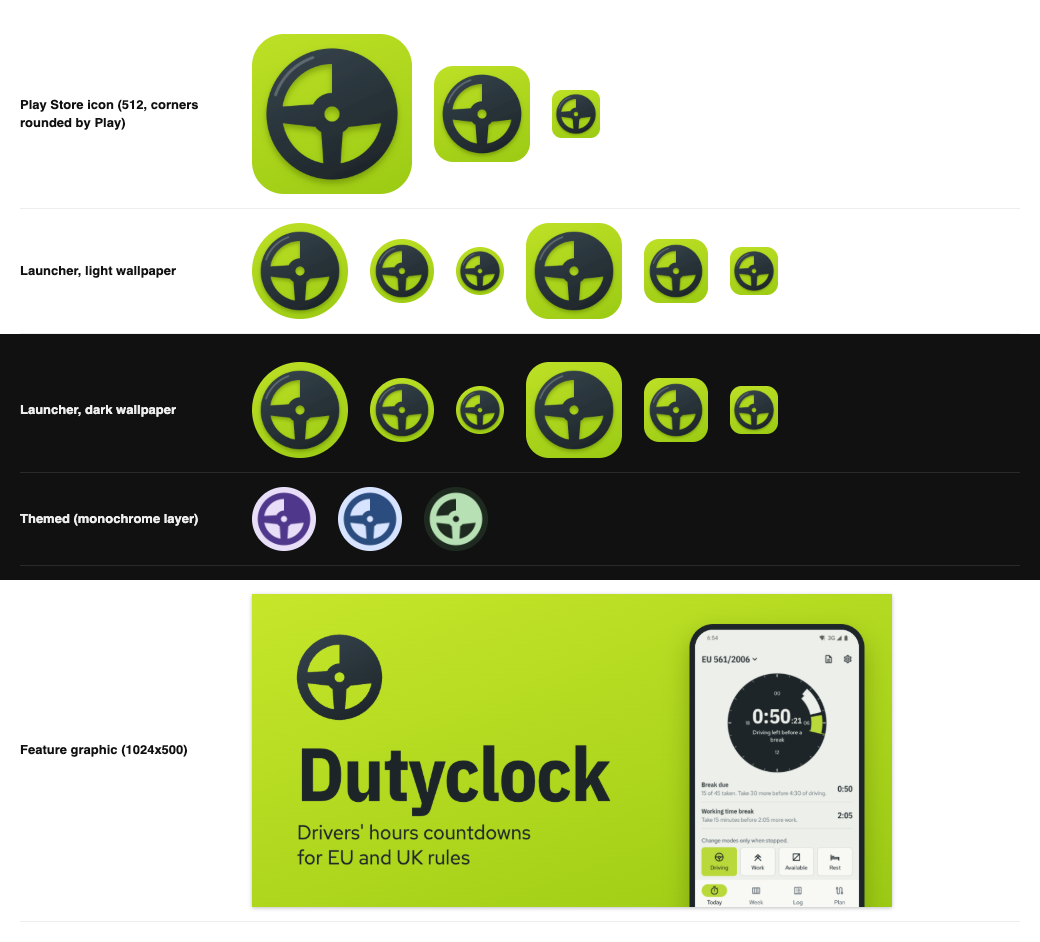
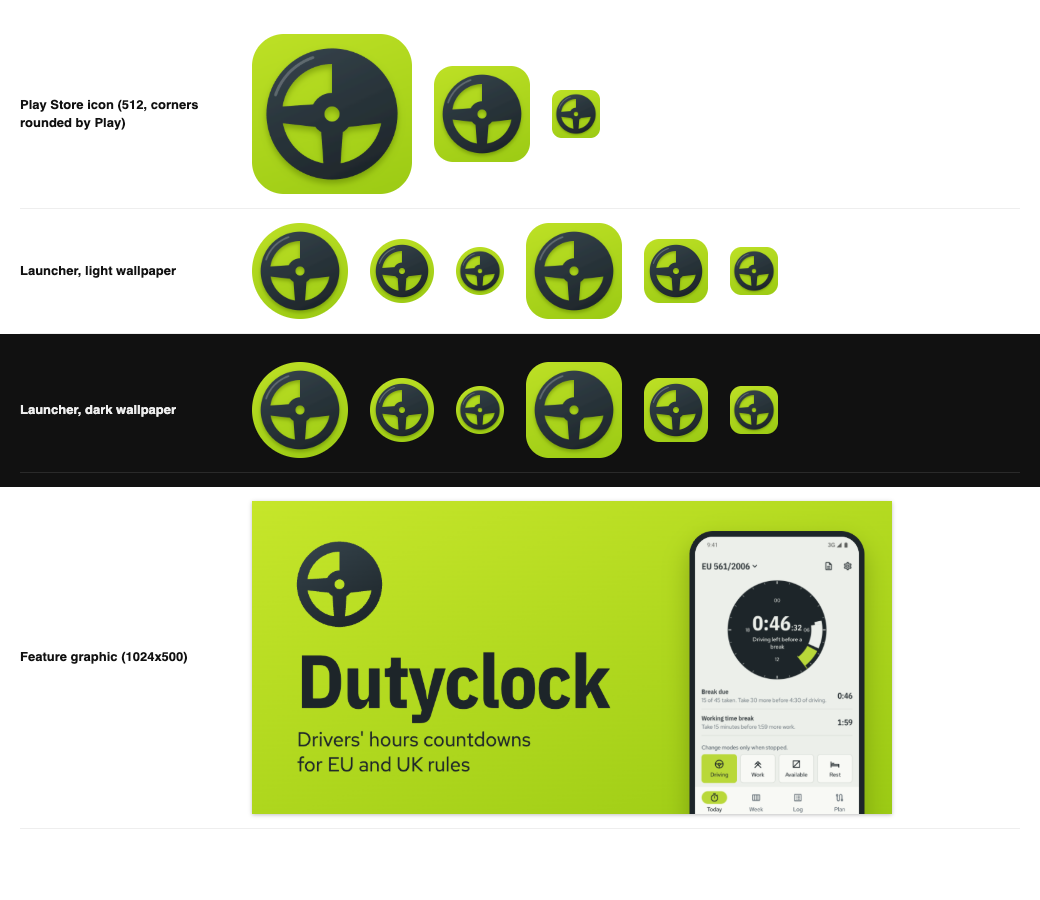
Feature graphic from the 9:41 screenshot; tighten one listing sentence
The feature graphic still embedded the earlier 6:54 capture with the Wi-Fi
warning icon. Re-rendered from store/feature.html against the current
screenshots-raw/01-today.png. Removed a doubled "and" in the full description.

diff --git a/store/listing.md b/store/listing.md
@@ -19,7 +19,7 @@ Drivers' hours countdowns for EU 561/2006, AETR and GB domestic rules: break due
 Split breaks count properly: 15 minutes then 30 minutes resets your 4.5-hour clock, and every break start time can be edited afterwards.
 Working time too: RTD breaks after 6 and 9 hours, the 60-hour week and your 48-hour average, with a printable 28-day record.
 
-Tap the mode you are in, the same four your tachograph uses: driving, other work, availability, break or rest. Every limit counts down on one screen, and the next one to run out counts down in a notification, and an alert sounds before a break is due or a rest must start.
+Tap the mode you are in, the same four your tachograph uses: driving, other work, availability, break or rest. Every limit counts down on one screen, the next one to run out counts down in a notification, and an alert sounds before a break is due or a rest must start.
 
 What it tracks
 - 4.5 hours driving, then 45 minutes or a 15 plus 30 split
